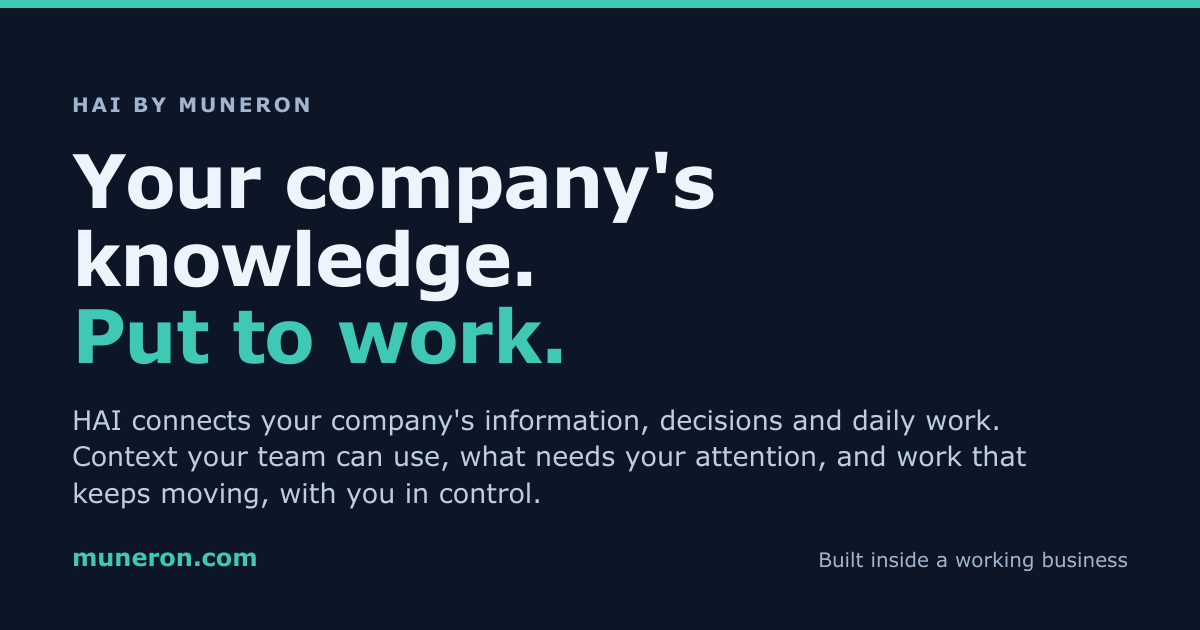
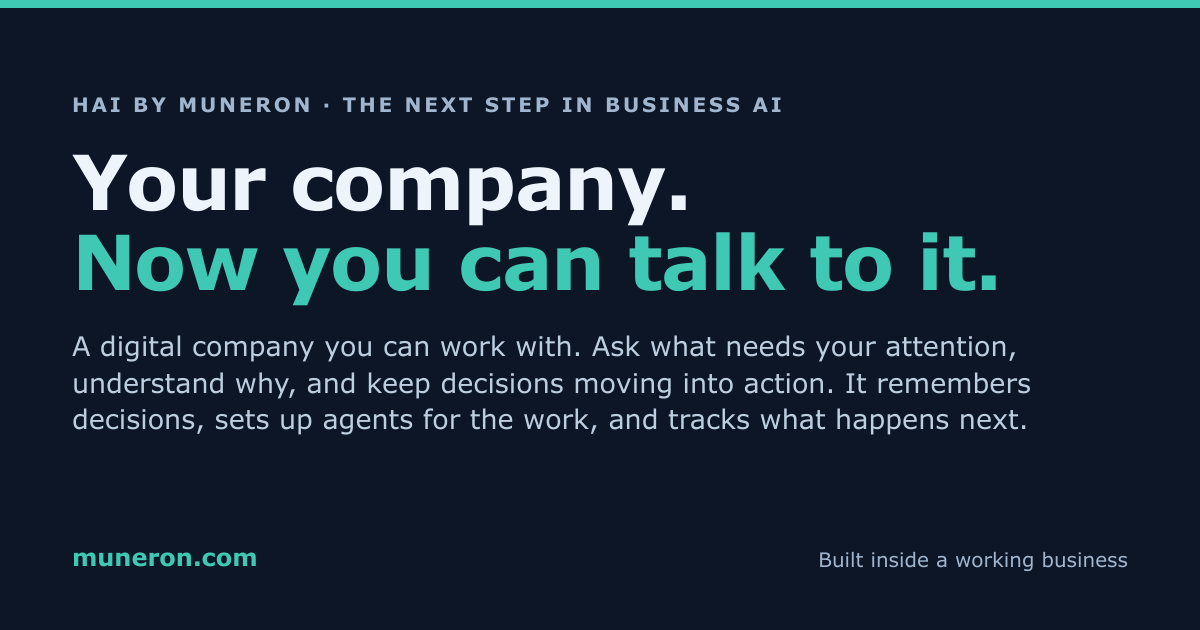
pass 2: digital-company positioning with tailored, supervised agents
Owner-approved direction (IMPLEMENTATION_BRIEF_03, POSITIONING_DECISION_02).
Hero: 'Your company. Now you can talk to it.' with the descriptor 'The next
step in business AI' and a two-sentence subhead that names remembered
decisions, agents set up for the work, and follow-up. An 'Ask your company'
panel with three example questions and one answer card (Source / Decision /
Owner / Next step), visibly labelled illustrative, keyboard operable. Three
complementary scopes (chat, agents, HAI) replace the comparison table. New
prominent section 'AI agents, built around your company' with the define /
configure / run within approved access / supervise sequence and illustrative
examples; configuration described as session-assisted, supervision as
reporting what ran, did not, went quiet or needs a person; part of the
connected deployment. Start here, system and contact aligned; OpenGraph card
regenerated; sales.css and ask-panel.js versioned 20261014b; dead comparison
CSS removed. Rejected lines from the decision file not used. Not published.

Changed region(s): [[0.0617, 0.2413, 0.8633, 0.8143], [0.2775, 0.1508, 0.6475, 0.181]]

diff --git a/index.html b/index.html
@@ -2,41 +2,110 @@
 <html lang="en" data-theme="light">
 <head>
   <meta charset="utf-8"><meta name="viewport" content="width=device-width, initial-scale=1">
-  <title>HAI by MUNERON - Your company's knowledge, put to work</title>
-  <meta name="description" content="HAI connects your company's information, decisions and daily work. Context your team can use, what needs your attention, and work that keeps moving, with you in control. Built inside a working aviation business, made for any owner-led company.">
-  <meta property="og:title" content="HAI by MUNERON - Your company's knowledge, put to work">
-  <meta property="og:description" content="HAI connects your company's information, decisions and daily work. Context your team can use, what needs your attention, and work that keeps moving, with you in control.">
+  <title>HAI by MUNERON - Your company. Now you can talk to it.</title>
+  <meta name="description" content="HAI connects your company's information, people and decisions into a digital company you can work with. Ask what needs your attention, understand why, and keep decisions moving into action. It remembers decisions, sets up agents for the work, and keeps track of what happens next.">
+  <meta property="og:title" content="HAI by MUNERON - Your company. Now you can talk to it.">
+  <meta property="og:description" content="A digital company you can work with: ask what needs your attention, understand why, keep decisions moving into action. It remembers decisions, sets up agents for the work, and tracks what happens next.">
   <meta property="og:url" content="https://muneron.com/"><meta property="og:type" content="website">
   <meta name="twitter:card" content="summary_large_image"><meta name="theme-color" content="#0c1626" media="(prefers-color-scheme: dark)"><meta name="theme-color" content="#eef3f9" media="(prefers-color-scheme: light)">
   <link rel="preload" href="/assets/fonts/poppins-600.woff2" as="font" type="font/woff2" crossorigin><link rel="preload" href="/assets/fonts/poppins-400.woff2" as="font" type="font/woff2" crossorigin>
-  <meta property="og:image" content="https://muneron.com/assets/card.png?v=20261014"><link rel="canonical" href="https://muneron.com/">
-  <link rel="icon" href="/assets/icon.svg" type="image/svg+xml"><link rel="stylesheet" href="/assets/fonts.css"><link rel="stylesheet" href="/assets/site.css"><link rel="stylesheet" href="/assets/sales.css?v=20261014">
+  <meta property="og:image" content="https://muneron.com/assets/card.png?v=20261014b"><link rel="canonical" href="https://muneron.com/">
+  <link rel="icon" href="/assets/icon.svg" type="image/svg+xml"><link rel="stylesheet" href="/assets/fonts.css"><link rel="stylesheet" href="/assets/site.css"><link rel="stylesheet" href="/assets/sales.css?v=20261014b">
   <script src="/assets/theme.js"></script><script src="/assets/hero-field.js" defer></script>
-  <script src="/assets/site.js" defer></script>
+  <script src="/assets/site.js" defer></script><script src="/assets/ask-panel.js?v=20261014b" defer></script>
 </head>
 <body>
 <a class="skip-link" href="#main">Skip to content</a>
 <header class="site-header"><nav class="shell nav" aria-label="Main navigation">
   <a class="brand-mark" href="/" aria-label="MUNERON home">MUNER<b>ON</b></a>
-  <div class="nav-links"><a href="#walkthrough">How it works</a><a href="/start-here/">Start here</a><a href="/aviation/">The system</a></div>
+  <div class="nav-links"><a href="#agents">Agents</a><a href="#walkthrough">How it works</a><a href="/start-here/">Start here</a><a href="/aviation/">The system</a></div>
   <a class="button button-small" href="/start/">Find your first use case</a>
 </nav></header>
 <main id="main">
-  <div class="hero-field">
+  <div class="hero-field hero-quiet">
     <canvas id="gl" aria-hidden="true"></canvas>
     <div id="glfall" aria-hidden="true"></div>
     <canvas id="scene" aria-hidden="true"></canvas>
     <div class="hero-veil" aria-hidden="true"></div>
   <section class="shell sales-hero solo">
     <div class="sales-intro">
-      <p class="audience">HAI by MUNERON</p>
-      <h1>Your company's knowledge. Put to work.</h1>
-      <p class="lead">HAI connects your company's information, decisions and daily work. It gives your team context they can use, shows you what needs your attention, and keeps work moving, with you in control.</p>
-      <div class="actions"><a class="button" href="/start/">Find your first use case <span aria-hidden="true">↗</span></a><a class="text-link" href="#walkthrough">See HAI at work ↓</a></div>
-      <p class="small muted">MUNERON is the company behind HAI. HAI was built inside a working aviation parts, MRO and leasing business, and is made for any owner-led company.</p>
+      <p class="audience">HAI by MUNERON · The next step in business AI</p>
+      <h1>Your company. Now you can talk to it.</h1>
+      <p class="lead">HAI connects your company's information, people and decisions into a digital company you can work with. Ask what needs your attention, understand why, and keep decisions moving into action.</p>
+      <p class="lead">It remembers decisions, sets up agents for the work, and keeps track of what happens next.</p>
+      <div class="actions"><a class="button" href="/start/">Find your first use case <span aria-hidden="true">↗</span></a><a class="text-link" href="#ask">Ask it something ↓</a></div>
+      <p class="small muted">Built inside a working aviation parts, MRO and leasing business, by its owner, while the business ran on it. Made for any owner-led company.</p>
     </div>
   </section>
   </div>
+
+  <section class="shell section ask-section" id="ask" aria-labelledby="ask-h">
+    <div class="section-heading"><h2 id="ask-h">Ask your company.</h2><p class="lead">Three questions an owner asks every week, answered the way a digital company answers: with the source, the decision behind it, the owner and the next step.</p></div>
+    <div class="ask-panel">
+      <div class="ask-chips" role="group" aria-label="Example questions">
+        <button type="button" class="ask-chip" aria-pressed="true">What needs my attention today?</button>
+        <button type="button" class="ask-chip" aria-pressed="false">Why is this order blocked?</button>
+        <button type="button" class="ask-chip" aria-pressed="false">What did we decide about the late supplier?</button>
+      </div>
+      <div class="ask-card">
+        <span class="ask-badge">Illustrative example</span>
+        <div class="ask-answer">
+          <p class="ask-text">One customer order is waiting for your approval. Purchasing has confirmed availability. Finance approved the terms yesterday. The sales owner is ready to send the proposal once you approve.</p>
+          <dl class="ask-meta">
+            <div><dt>Source</dt><dd>ERP order record · purchasing note · finance approval, yesterday</dd></div>
+            <div><dt>Decision</dt><dd>Terms approved by finance, yesterday</dd></div>
+            <div><dt>Owner</dt><dd>Sales owner, pending your approval</dd></div>
+            <div><dt>Next step</dt><dd>Approve, and the proposal goes out today. HAI confirms it was sent.</dd></div>
+          </dl>
+        </div>
+        <div class="ask-answer" hidden>
+          <p class="ask-text">It is waiting on purchasing: the last supplier price is eight months old, and the customer's previous invoice is overdue.</p>
+          <dl class="ask-meta">
+            <div><dt>Source</dt><dd>ERP order · supplier offer from February · open invoice, 41 days</dd></div>
+            <div><dt>Decision</dt><dd>12 September: new quotes to this customer wait until the invoice is settled (finance)</dd></div>
+            <div><dt>Owner</dt><dd>Purchasing, with finance on the invoice</dd></div>
+            <div><dt>Next step</dt><dd>Refresh the supplier price today. Finance confirms terms. HAI follows up on Friday.</dd></div>
+          </dl>
+        </div>
+        <div class="ask-answer" hidden>
+          <p class="ask-text">On 3 October you decided to keep the supplier, and to move the next two orders to the backup supplier until deliveries are on time again.</p>
+          <dl class="ask-meta">
+            <div><dt>Source</dt><dd>Management meeting notes, 3 October · delivery records</dd></div>
+            <div><dt>Decision</dt><dd>Keep the supplier; backup for the next two orders (you, 3 October)</dd></div>
+            <div><dt>Owner</dt><dd>Purchasing</dd></div>
+            <div><dt>Next step</dt><dd>Second backup order placed. Delivery review on 24 October. HAI reports the result.</dd></div>
+          </dl>
+        </div>
+      </div>
+    </div>
+    <p class="small muted">Illustrative scenario. No real company, customer or figures. Answers come from the sources you connect, and only from those.</p>
+  </section>
+
+  <section class="band" id="scopes"><div class="shell">
+    <div class="section-heading"><h2>Three ways to use AI. They work together.</h2></div>
+    <div class="tiles cols3">
+      <div><h3>Chat</h3><p>Ask questions. Think, write and explore.</p></div>
+      <div><h3>Agents</h3><p>Delegate tasks. Prepare, check and execute.</p></div>
+      <div class="tile-accent"><h3>HAI</h3><p>Connect the company. Company context, tailored agents, remembered decisions and coordinated follow-up.</p></div>
+    </div>
+    <p class="small muted band-note">HAI uses agents, and it works alongside the chat tools your team already has.</p>
+  </div></section>
+
+  <section class="shell section" id="agents" aria-labelledby="agents-h">
+    <div class="section-heading"><h2 id="agents-h">AI agents, built around your company.</h2><p class="lead">Tell HAI what needs to get done. Working with you, it sets up a routine or an agent for the job: the company context it needs, the sources it may read, the rules it works under and when it runs. You define access and approvals. HAI supervises the work: what ran, what did not, and what needs a person.</p></div>
+    <ol class="walk four">
+      <li><span class="step">1</span><h3>Define the job</h3><p>In plain words, from you or proposed by HAI from what it sees in the company.</p></li>
+      <li><span class="step">2</span><h3>Configure around your company</h3><p>In a working session with you: company context, the sources it may read, the rules it follows, the tools it may use, the schedule.</p></li>
+      <li><span class="step">3</span><h3>Run within approved access</h3><p>Only the sources and actions you granted, each with a stop switch.</p></li>
+      <li><span class="step">4</span><h3>Supervise and surface</h3><p>What ran, what did not, what went quiet, and what needs a person, reported to the owner.</p></li>
+    </ol>
+    <div class="tiles cols3 agent-examples">
+      <div><h3>Weekly management brief</h3><p>Reads the week's numbers and open items, writes the brief, flags what changed.</p></div>
+      <div><h3>Supplier updates</h3><p>Checks confirmations and delivery dates against open orders, raises the late ones.</p></div>
+      <div><h3>Follow-up on open work</h3><p>Chases what was promised, records what came back, escalates what did not.</p></div>
+    </div>
+    <p class="small muted">Illustrative examples. You do not design and manage each agent in isolation: HAI gives them shared company context, coordination and oversight. Agents are configured with you in a working session and supervised continuously as part of a connected deployment, within the access you approve.</p>
+  </section>
 
   <section class="shell section" id="outcomes" aria-labelledby="outcomes-h">
     <div class="section-heading"><h2 id="outcomes-h">What changes for an owner.</h2></div>
@@ -47,20 +116,8 @@
     </div>
   </section>
 
-  <section class="band" id="compare"><div class="shell">
-    <div class="section-heading"><h2>Using AI for a task, or running work with HAI.</h2></div>
-    <div class="compare" role="table" aria-label="Comparison of using AI for a task and running work with HAI">
-      <div class="compare-head" role="row"><span role="columnheader"></span><span role="columnheader">AI for a task</span><span role="columnheader" class="hai">Running work with HAI</span></div>
-      <div class="compare-row" role="row"><span role="rowheader">Context</span><span role="cell"><small class="cell-label">AI for a task</small>Assembled by hand, each time.</span><span role="cell" class="hai"><small class="cell-label">Running work with HAI</small>Approved sources connected once. Context arrives with the task.</span></div>
-      <div class="compare-row" role="row"><span role="rowheader">Output</span><span role="cell"><small class="cell-label">AI for a task</small>A useful answer.</span><span role="cell" class="hai"><small class="cell-label">Running work with HAI</small>A recommendation with evidence, an owner and a next step.</span></div>
-      <div class="compare-row" role="row"><span role="rowheader">Follow-up</span><span role="cell"><small class="cell-label">AI for a task</small>Scattered across chats and inboxes.</span><span role="cell" class="hai"><small class="cell-label">Running work with HAI</small>Decisions and follow-ups are retained and chased.</span></div>
-      <div class="compare-row" role="row"><span role="rowheader">Scope</span><span role="cell"><small class="cell-label">AI for a task</small>One person's session.</span><span role="cell" class="hai"><small class="cell-label">Running work with HAI</small>Shared rules, permissions and routines for the whole company.</span></div>
-    </div>
-    <p class="small muted compare-note">Modern chat tools can remember and connect too. The difference is the operating setup: what is connected, who owns what, and what happens after the answer.</p>
-  </div></section>
-
   <section class="shell section" id="walkthrough" aria-labelledby="walk-h">
-    <div class="section-heading"><p class="audience">Illustrative scenario</p><h2 id="walk-h">See HAI at work.</h2><p class="lead">A customer asks for a quote on a part your purchasing team last bought eight months ago. Here is what happens between the request and the result.</p></div>
+    <div class="section-heading"><p class="audience">Illustrative scenario</p><h2 id="walk-h">Then it carries the work forward.</h2><p class="lead">A customer asks for a quote on a part your purchasing team last bought eight months ago. Here is what happens between the request and the result.</p></div>
     <ol class="walk">
       <li><span class="step">1</span><h3>Source information</h3><p>The request, the ERP record, last year's supplier offer and the customer's open invoice are read together.</p></li>
       <li><span class="step">2</span><h3>The issue that matters</h3><p>The last supplier price is stale, and the customer has an overdue invoice. Both are surfaced, with the source next to each.</p></li>
@@ -76,9 +133,9 @@
     <div class="fn-grid">
       <article><h3>Company context</h3><p>Your products, customers, suppliers, people and terms, held in one place that HAI reads first. Nobody re-explains the business every morning.</p></article>
       <article><h3>Connections to approved sources</h3><p>Mail, documents, accounting and the ERP, connected read-only and scoped to what you grant. Your systems stay the systems of record.</p></article>
-      <article><h3>Decisions and corrections that persist</h3><p>What you decide and what you correct is written down and used next time. The layer gets more useful the longer it runs.</p></article>
-      <article><h3>Role-focused assistance</h3><p>Sales, purchasing, finance and management each get their own view and their own routines, with the permissions of that role.</p></article>
-      <article><h3>Routines and follow-up</h3><p>Daily and weekly routines prepare, check and chase, and report what they could not do, so nothing goes quiet.</p></article>
+      <article><h3>Decisions and corrections that persist</h3><p>What you decide and what you correct is written down and used next time. The company gets more useful the longer it runs.</p></article>
+      <article><h3>Tailored agents and routines</h3><p>Each job gets an agent or a routine configured around your sources, rules and schedule, with shared context and oversight.</p></article>
+      <article><h3>Roles and follow-up</h3><p>Sales, purchasing, finance and management each get their own view, with that role's permissions. Follow-ups are chased, and what could not be done is reported.</p></article>
       <article><h3>Permissions and verification</h3><p>Every figure shows its source. Outbound actions exist only where you approve them, each behind rules you set and a stop switch.</p></article>
     </div>
   </section>
@@ -93,7 +150,7 @@
     <div class="section-heading"><h2 id="offer-h">Start with one workflow.</h2><p class="lead">Pick one recurring, valuable workflow: customer enquiries, purchasing exceptions, the weekly management picture. Define its sources, its owner and the output you expect. HAI runs it. You expand when it proves useful.</p></div>
     <div class="tiles cols2">
       <div><h3>Starter</h3><p>A portable HAI that runs on a computer in your company, with your own Claude account. It reads what you grant, builds the company context, briefs the owner and proposes where to go next. It does not send, write to your systems or move money.</p></div>
-      <div class="tile-accent"><h3>Connected deployment</h3><p>Your systems connected, routines scheduled, roles and permissions set for your team, and the actions you approve put behind rules and a stop switch. Scoped and agreed per company.</p></div>
+      <div class="tile-accent"><h3>Connected deployment</h3><p>Your systems connected, agents and routines configured around your workflows and supervised, roles and permissions set for your team, and the actions you approve put behind rules and a stop switch. Scoped and agreed per company.</p></div>
     </div>
     <div class="actions"><a class="button" href="/start/">Find your first use case <span aria-hidden="true">↗</span></a><a class="text-link" href="/start-here/">Not sure where you stand? Start here ↗</a></div>
   </section>
@@ -101,7 +158,7 @@
   <section class="shell section" id="faq" aria-labelledby="faq-h">
     <div class="section-heading"><h2 id="faq-h">Questions owners ask.</h2></div>
     <dl class="myths">
-      <div><dt>Is this another chatbot?</dt><dd>No. A chat answers the question in front of it. HAI holds the company context, connects approved sources, keeps decisions and runs routines. The chat is one of its doors, not the product.</dd></div>
+      <div><dt>Is this another chatbot?</dt><dd>No. A chat answers the question in front of it. HAI is a digital company: it holds the company context, connects approved sources, keeps decisions, runs agents and routines, and follows up. Talking to it is one of its doors.</dd></div>
       <div><dt>Do we replace our systems?</dt><dd>No. Your ERP, accounting and mail stay the systems of record. HAI reads them and works alongside them.</dd></div>
       <div><dt>Who controls access and actions?</dt><dd>You do. Access is granted per source and per role. Outbound actions exist only where you approve them, each with its own stop switch. HAI does not sign documents or move money.</dd></div>
       <div><dt>How do we start?</dt><dd>With one workflow, its sources and its owner. Tell us about it, and we reply with what we would set up first and what we would need from you.</dd></div>

diff --git a/start-here/index.html b/start-here/index.html
@@ -3,13 +3,13 @@
 <head>
   <meta charset="utf-8"><meta name="viewport" content="width=device-width, initial-scale=1">
   <title>Start here - from a chat window to an operating layer - HAI by MUNERON</title>
-  <meta name="description" content="For companies using AI as a chat today. What HAI offers now, the six parts an operating layer is made of, what to have in place before day one, and the order to build in.">
+  <meta name="description" content="For companies using AI as a chat today. What HAI, a digital company you can work with, offers now; what it is made of; what to have in place before day one; the order to build in.">
   <meta property="og:title" content="Start here - from a chat window to an operating layer"><meta property="og:description" content="What HAI offers today, the six parts of an operating layer, what to have in place before day one, and the order to build in.">
   <meta property="og:url" content="https://muneron.com/start-here/"><meta property="og:type" content="article">
   <meta name="twitter:card" content="summary_large_image"><meta name="theme-color" content="#0c1626" media="(prefers-color-scheme: dark)"><meta name="theme-color" content="#eef3f9" media="(prefers-color-scheme: light)">
   <link rel="preload" href="/assets/fonts/poppins-600.woff2" as="font" type="font/woff2" crossorigin><link rel="preload" href="/assets/fonts/poppins-400.woff2" as="font" type="font/woff2" crossorigin>
-  <meta property="og:image" content="https://muneron.com/assets/card.png?v=20261014"><link rel="canonical" href="https://muneron.com/start-here/">
-  <link rel="icon" href="/assets/icon.svg" type="image/svg+xml"><link rel="stylesheet" href="/assets/fonts.css"><link rel="stylesheet" href="/assets/site.css"><link rel="stylesheet" href="/assets/sales.css?v=20261014">
+  <meta property="og:image" content="https://muneron.com/assets/card.png?v=20261014b"><link rel="canonical" href="https://muneron.com/start-here/">
+  <link rel="icon" href="/assets/icon.svg" type="image/svg+xml"><link rel="stylesheet" href="/assets/fonts.css"><link rel="stylesheet" href="/assets/site.css"><link rel="stylesheet" href="/assets/sales.css?v=20261014b">
   <script src="/assets/theme.js"></script><script src="/assets/site.js" defer></script>
 </head>
 <body>
@@ -23,7 +23,7 @@
   <section class="shell section">
     <p class="audience">For companies using AI as a chat today</p>
     <h1>From a chat window to an operating layer.</h1>
-    <p class="lead">Stop briefing your AI from scratch. In most companies every useful answer starts with one person re-explaining the business, and ends with that person. HAI holds the company context, reads approved sources, works inside rules you set, and reports to the people who own each process.</p>
+    <p class="lead">Stop briefing your AI from scratch. In most companies every useful answer starts with one person re-explaining the business, and ends with that person. HAI is a digital company you can work with: it holds the company context, reads approved sources, remembers decisions, sets up agents for the work, and reports to the people who own each process.</p>
     <p class="lead">This page is the practical map: what HAI offers today, what an operating layer is made of, what to have in place before day one, and the order to build in.</p>
   </section>
 
@@ -31,7 +31,7 @@
     <div class="section-heading"><h2 id="today-h">What HAI offers today.</h2></div>
     <div class="tiles cols2">
       <div><h3>Starter</h3><p>A portable HAI that runs on a computer in your company with your own Claude account. It reads what you grant, builds the company context, briefs the owner on what matters and proposes where to go next. It does not send, write to your systems or move money. The right first step for a company at the chat stage.</p></div>
-      <div class="tile-accent"><h3>Connected deployment</h3><p>Your systems connected, daily and weekly routines scheduled, roles and permissions set for your team, and the actions you approve put behind rules and a stop switch. Scoped and agreed per company, workflow by workflow.</p></div>
+      <div class="tile-accent"><h3>Connected deployment</h3><p>Your systems connected, agents and routines configured around your workflows and supervised, roles and permissions set for your team, and the actions you approve put behind rules and a stop switch. Scoped and agreed per company, workflow by workflow.</p></div>
     </div>
     <p class="lead"><a class="text-link" href="/start/">Tell us about your first workflow ↗</a></p>
   </section>
@@ -41,7 +41,7 @@
     <div class="tiles cols3">
       <div><h3>What a chat does well</h3><p>Reads four hundred emails and says which three matter. Drafts anything in seconds. Spots patterns people miss.</p></div>
       <div><h3>What it leaves to you</h3><p>Checking the figures against your systems. Deciding who owns the outcome. Remembering what was decided. Doing it again next week.</p></div>
-      <div class="tile-accent"><h3>What HAI adds</h3><p>Shared company context, source checks on every figure, decisions that are retained, and work that repeats as routines. An owner for every output, and rules for anything that leaves the building.</p></div>
+      <div class="tile-accent"><h3>What HAI adds</h3><p>Shared company context, source checks on every figure, decisions that are retained, and agents and routines configured around your work and supervised. An owner for every output, and rules for anything that leaves the building.</p></div>
     </div>
   </section>
 
@@ -51,7 +51,7 @@
       <article><h3>Company context</h3><p>Products, customers, suppliers, people and the company's own terms, held in one place HAI reads first.</p></article>
       <article><h3>Connections to approved sources</h3><p>Mail, documents, accounting and the ERP, read-only and scoped to what you grant. Your systems stay the record.</p></article>
       <article><h3>Decisions and corrections that persist</h3><p>What you decide and what you correct is written down and used next time.</p></article>
-      <article><h3>Role-focused assistance</h3><p>Each role gets its own view and routines, with that role's permissions. Health and personal data never route by job title.</p></article>
+      <article><h3>Tailored agents and roles</h3><p>Each job gets an agent or a routine configured around your sources and rules; each role gets its own view, with that role's permissions. Health and personal data never route by job title.</p></article>
       <article><h3>Routines and follow-up</h3><p>Daily and weekly routines prepare, check and chase, and report what they could not do.</p></article>
       <article><h3>Permissions and verification</h3><p>Every figure shows its source. Outbound actions exist only where you approve them, behind rules and a stop switch.</p></article>
     </div>

diff --git a/assets/sales.css b/assets/sales.css
@@ -149,15 +149,6 @@
 .entrance p span{color:var(--muted);display:block;font-size:15px;margin-top:2px}
 /* refresh 2026-10-14: product story */
 .tiles.cols2{grid-template-columns:repeat(auto-fit,minmax(280px,1fr))}
-.compare{display:grid;gap:0;max-width:900px;border:1px solid var(--line);border-radius:14px;background:var(--surface);overflow:hidden}
-.compare-head,.compare-row{display:grid;grid-template-columns:120px 1fr 1.25fr;gap:0}
-.compare-head span{padding:14px 18px;font-size:12px;letter-spacing:.08em;text-transform:uppercase;color:var(--muted);border-bottom:1px solid var(--line)}
-.compare-head span.hai{color:var(--accent)}
-.compare-row span{padding:16px 18px;font-size:15px;color:var(--dim);border-bottom:1px solid var(--line)}
-.compare-row:last-child span{border-bottom:0}
-.compare-row span[role="rowheader"]{font-weight:600;color:var(--ink)}
-.compare-row span.hai{background:var(--tint);color:var(--ink)}
-.compare-note{max-width:70ch;margin-top:14px}
 .walk{list-style:none;margin:0;padding:0;display:grid;grid-template-columns:repeat(auto-fit,minmax(190px,1fr));gap:14px;counter-reset:w}
 .walk li{position:relative;border:1px solid var(--line);border-radius:14px;background:var(--surface);padding:18px 18px 16px}
 .walk .step{display:inline-grid;place-items:center;width:30px;height:30px;border-radius:50%;background:var(--tint);color:var(--accent);font-weight:700;font-size:14px;margin-bottom:10px}
@@ -165,12 +156,28 @@
 .walk p{margin:0;font-size:14px;color:var(--dim);line-height:1.45}
 .walk li+li::before{content:"";position:absolute;left:-14px;top:50%;width:14px;height:2px;background:var(--line)}
 #offer .actions{margin-top:22px}
-@media(max-width:720px){.compare-head,.compare-row{grid-template-columns:1fr}.compare-head span:first-child{display:none}.compare-row span[role="rowheader"]{padding-bottom:4px;border-bottom:0}.compare-row span:not([role="rowheader"]){padding-top:6px}.walk li+li::before{display:none}}
+@media(max-width:720px){.walk li+li::before{display:none}}
 /* mobile labels for the comparison cells (Codex review 1) */
-.compare .cell-label{display:none}
 @media(max-width:720px){
-  .compare .cell-label{display:block;font-size:11px;letter-spacing:.08em;text-transform:uppercase;color:var(--muted);margin-bottom:4px;font-weight:600}
-  .compare span.hai .cell-label{color:var(--accent)}
-  .compare-head{display:none}
-  .compare-row span:not([role="rowheader"]){padding-top:12px}
-}
+        }
+/* pass 2 (2026-10-14b): digital company hero, ask panel, scopes, agents */
+.hero-quiet canvas{opacity:.42}
+.ask-section{padding-top:48px}
+.ask-panel{display:grid;grid-template-columns:minmax(220px,300px) 1fr;gap:18px;align-items:start}
+.ask-chips{display:grid;gap:8px}
+.ask-chip{text-align:left;font:inherit;font-size:15px;font-weight:600;color:var(--ink);background:var(--surface);border:1px solid var(--line);border-radius:12px;padding:12px 14px;cursor:pointer;transition:border-color .15s var(--ease-out),background .15s var(--ease-out)}
+.ask-chip:hover{border-color:var(--accent)}
+.ask-chip.is-on,.ask-chip[aria-pressed="true"]{border-color:var(--accent);background:var(--tint);color:var(--ink)}
+.ask-chip:focus-visible{outline:2px solid var(--focus);outline-offset:2px}
+.ask-card{position:relative;border:1px solid var(--line);border-radius:14px;background:var(--surface);padding:22px 24px 20px}
+.ask-badge{position:absolute;top:12px;right:14px;font-size:11px;letter-spacing:.08em;text-transform:uppercase;color:var(--muted);border:1px solid var(--line);border-radius:999px;padding:3px 8px;background:var(--band)}
+.ask-text{margin:6px 0 16px;padding-right:120px;font-size:18px;line-height:1.45;color:var(--ink)}
+.ask-meta{margin:0;display:grid;gap:0}
+.ask-meta div{display:grid;grid-template-columns:96px 1fr;gap:12px;padding:9px 0;border-top:1px solid var(--line)}
+.ask-meta dt{font-size:12px;letter-spacing:.08em;text-transform:uppercase;color:var(--accent);font-weight:600;padding-top:3px}
+.ask-meta dd{margin:0;font-size:15px;color:var(--dim)}
+.band-note{max-width:70ch;margin-top:14px}
+.walk.four{grid-template-columns:repeat(auto-fit,minmax(200px,1fr));margin-bottom:18px}
+.agent-examples{margin-top:4px}
+@media(max-width:760px){.ask-panel{grid-template-columns:1fr}.ask-chips{grid-template-columns:1fr}.ask-text{padding-right:0;margin-top:30px}.ask-meta div{grid-template-columns:1fr;gap:2px}}
+@media(prefers-reduced-motion:reduce){.ask-chip{transition:none}}

diff --git a/aviation/index.html b/aviation/index.html
@@ -3,13 +3,13 @@
 <head>
   <meta charset="utf-8"><meta name="viewport" content="width=device-width, initial-scale=1">
   <title>The system behind HAI - built inside a working business - MUNERON</title>
-  <meta name="description" content="The reference implementation of HAI inside an aviation parts, MRO and leasing group: how it is wired, what it covers, what leaves the building and what stops it, registry figures, and the audit record.">
+  <meta name="description" content="The reference implementation of HAI, the digital company, inside an aviation parts, MRO and leasing group: how it is wired, what it covers, what leaves the building and what stops it, registry figures, and the audit record.">
   <meta property="og:title" content="The system behind HAI - MUNERON"><meta property="og:description" content="The reference implementation inside an aviation group: wiring, functions, outbound channels, controls, registry figures and the audit record.">
   <meta property="og:url" content="https://muneron.com/aviation/"><meta property="og:type" content="article">
-  <meta property="og:image" content="https://muneron.com/assets/card.png?v=20261014"><link rel="canonical" href="https://muneron.com/aviation/">
+  <meta property="og:image" content="https://muneron.com/assets/card.png?v=20261014b"><link rel="canonical" href="https://muneron.com/aviation/">
   <meta name="twitter:card" content="summary_large_image"><meta name="theme-color" content="#0c1626" media="(prefers-color-scheme: dark)"><meta name="theme-color" content="#eef3f9" media="(prefers-color-scheme: light)">
   <link rel="preload" href="/assets/fonts/poppins-600.woff2" as="font" type="font/woff2" crossorigin><link rel="preload" href="/assets/fonts/poppins-400.woff2" as="font" type="font/woff2" crossorigin>
-  <link rel="icon" href="/assets/icon.svg" type="image/svg+xml"><link rel="stylesheet" href="/assets/fonts.css"><link rel="stylesheet" href="/assets/site.css"><link rel="stylesheet" href="/assets/sales.css?v=20261014">
+  <link rel="icon" href="/assets/icon.svg" type="image/svg+xml"><link rel="stylesheet" href="/assets/fonts.css"><link rel="stylesheet" href="/assets/site.css"><link rel="stylesheet" href="/assets/sales.css?v=20261014b">
   <script src="/assets/theme.js"></script><script src="/assets/site.js" defer></script><script src="/assets/verify-demo.js" defer></script>
 </head>
 <body>
@@ -24,7 +24,7 @@
     <p class="audience">The system behind HAI</p>
     <h1>Built inside a working business.</h1>
     <p class="lead">HAI was first built inside an aviation parts, MRO and landing gear leasing group, by its owner, while the business ran on it. Four months, 1,650 commits across 15 repositories, added function by function as the business needed them. This page documents that internal reference implementation.</p>
-    <p class="lead">What a new company gets is scoped to it: the starter reads what you grant and does not act; a connected deployment connects your systems and schedules routines workflow by workflow. The functions, channels and controls below show what the same parts look like at full depth.</p>
+    <p class="lead">What a new company gets is scoped to it: the starter reads what you grant and does not act; a connected deployment connects your systems and configures and supervises agents and routines workflow by workflow. The functions, channels and controls below show what the same parts look like at full depth.</p>
   </section>
 
   <section class="shell section" id="timeline" aria-labelledby="tl-h">

diff --git a/start/index.html b/start/index.html
@@ -8,8 +8,8 @@
   <meta property="og:url" content="https://muneron.com/start/"><meta property="og:type" content="website">
   <meta name="twitter:card" content="summary_large_image"><meta name="theme-color" content="#0c1626" media="(prefers-color-scheme: dark)"><meta name="theme-color" content="#eef3f9" media="(prefers-color-scheme: light)">
   <link rel="preload" href="/assets/fonts/poppins-600.woff2" as="font" type="font/woff2" crossorigin><link rel="preload" href="/assets/fonts/poppins-400.woff2" as="font" type="font/woff2" crossorigin>
-  <meta property="og:image" content="https://muneron.com/assets/card.png?v=20261014"><link rel="canonical" href="https://muneron.com/start/">
-  <link rel="icon" href="/assets/icon.svg" type="image/svg+xml"><link rel="stylesheet" href="/assets/fonts.css"><link rel="stylesheet" href="/assets/site.css"><link rel="stylesheet" href="/assets/sales.css?v=20261014">
+  <meta property="og:image" content="https://muneron.com/assets/card.png?v=20261014b"><link rel="canonical" href="https://muneron.com/start/">
+  <link rel="icon" href="/assets/icon.svg" type="image/svg+xml"><link rel="stylesheet" href="/assets/fonts.css"><link rel="stylesheet" href="/assets/site.css"><link rel="stylesheet" href="/assets/sales.css?v=20261014b">
   <script src="/assets/theme.js"></script><script src="/assets/site.js" defer></script>
 </head>
 <body>
@@ -22,7 +22,7 @@
   <section class="shell section start-page">
     <p class="audience">Contact</p>
     <h1>Find your first use case.</h1>
-    <p class="lead">HAI starts with one recurring, valuable workflow. Tell us about it in your own words. Three things make the first reply useful:</p>
+    <p class="lead">HAI starts with one recurring, valuable workflow: the first thing your digital company takes on. Tell us about it in your own words. Three things make the first reply useful:</p>
     <ol class="three">
       <li><b>The workflow.</b> The recurring piece of work that eats the most time or causes the most chasing: customer enquiries, purchasing exceptions, the weekly management picture, something else.</li>
       <li><b>Where its information lives.</b> Mail, spreadsheets, the ERP, accounting, documents, people's heads. Roughly is fine.</li>

diff --git a/assets/ask-panel.js b/assets/ask-panel.js
@@ -1,0 +1,19 @@
+(() => {
+  const root = document.getElementById('ask');
+  if (!root) return;
+  const chips = [...root.querySelectorAll('.ask-chip')];
+  const panels = [...root.querySelectorAll('.ask-answer')];
+  if (!chips.length || chips.length !== panels.length) return;
+  function show(i) {
+    chips.forEach((c, k) => { const on = k === i; c.setAttribute('aria-pressed', String(on)); c.classList.toggle('is-on', on); });
+    panels.forEach((p, k) => { p.hidden = k !== i; });
+  }
+  chips.forEach((c, i) => c.addEventListener('click', () => show(i)));
+  root.addEventListener('keydown', e => {
+    const i = chips.indexOf(document.activeElement);
+    if (i < 0) return;
+    if (e.key === 'ArrowRight' || e.key === 'ArrowDown') { e.preventDefault(); chips[(i + 1) % chips.length].focus(); show((i + 1) % chips.length); }
+    if (e.key === 'ArrowLeft' || e.key === 'ArrowUp') { e.preventDefault(); chips[(i - 1 + chips.length) % chips.length].focus(); show((i - 1 + chips.length) % chips.length); }
+  });
+  show(0);
+})();
